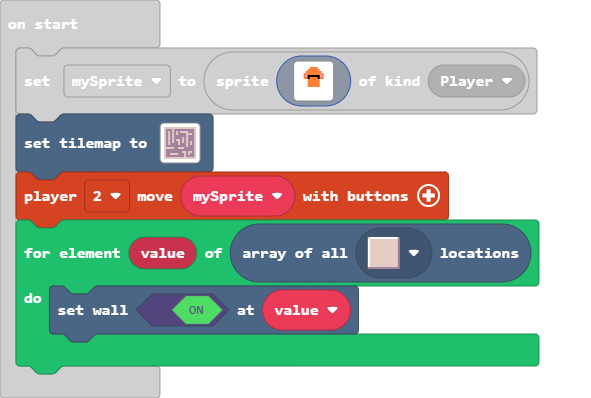
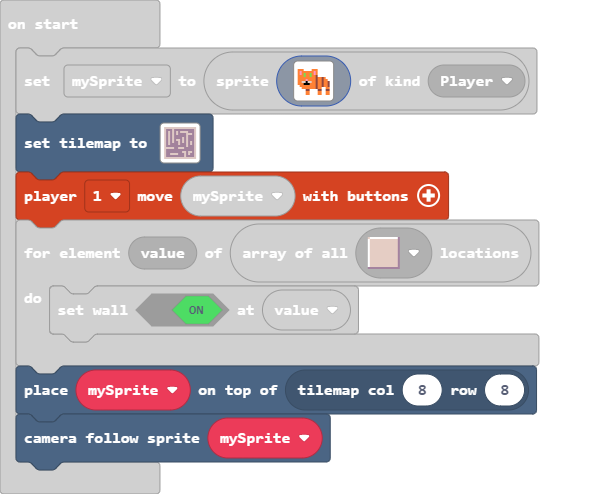
Update main.blocks, main.ts, images.g.jres, images.g.ts

diff --git a/main.ts b/main.ts
@@ -1,23 +1,25 @@
 let mySprite = sprites.create(img`
     . . . . . . . . . . . . . . . . 
-    . . . . . . 4 f f 4 . . . . . . 
-    . . . . . 4 4 4 4 4 4 . . . . . 
-    . . . . 4 4 7 4 4 7 4 4 . . . . 
-    . . . 4 3 4 7 4 4 7 4 3 4 . . . 
-    . . . 4 3 f f f f f f 3 4 . . . 
-    . . . 4 4 f 4 4 4 4 f 4 4 . . . 
-    . . . . . 4 4 4 4 4 4 . . . . . 
-    . . . . . 4 4 4 4 4 4 . . . . . 
-    . . . . . 4 4 4 4 4 4 . . . . . 
-    . . . . . 4 4 4 4 4 4 . . . . . 
-    . . . . . 4 4 . . 4 4 . . . . . 
-    . . . . . 4 4 . . 4 4 . . . . . 
     . . . . . . . . . . . . . . . . 
-    . . . . . . . . . . . . . . . . 
+    4 4 4 . . . . 4 4 4 . . . . . . 
+    4 3 4 4 4 4 4 4 3 4 . . . . . . 
+    4 3 4 7 4 4 7 4 3 4 . . . . . . 
+    4 4 4 7 4 4 7 4 4 e . . . . . . 
+    4 4 4 4 4 4 4 4 4 e 4 4 e 4 . . 
+    4 4 4 4 3 4 4 4 4 e 4 4 e 4 4 . 
+    4 4 d d f d d 4 4 e 4 4 e 4 4 e 
+    4 4 4 f f f 4 4 4 e 4 4 e 4 4 e 
+    . 4 4 4 4 4 4 4 4 e 4 4 e 4 4 e 
+    . . 4 4 4 4 4 4 4 e 4 4 . . 4 4 
+    . . . . e e . . . . e e . . e e 
+    . . . . 4 4 . . . . 4 4 . . 4 4 
+    . . . . 4 4 . . . . 4 4 . . 4 4 
     . . . . . . . . . . . . . . . . 
     `, SpriteKind.Player)
 tiles.setTilemap(tilemap`level1`)
-controller.player2.moveSprite(mySprite)
+controller.player1.moveSprite(mySprite)
 for (let value of tiles.getTilesByType(sprites.dungeon.floorLight2)) {
     tiles.setWallAt(value, true)
 }
+tiles.placeOnTile(mySprite, tiles.getTileLocation(8, 8))
+scene.cameraFollowSprite(mySprite)

diff --git a/images.g.ts b/images.g.ts
@@ -5,20 +5,20 @@ namespace myImages {
         switch(helpers.stringTrim(name)) {
             case "image1":return img`
 . . . . . . . . . . . . . . . . 
-. . . . . . 4 f f 4 . . . . . . 
-. . . . . 4 4 4 4 4 4 . . . . . 
-. . . . 4 4 7 4 4 7 4 4 . . . . 
-. . . 4 3 4 7 4 4 7 4 3 4 . . . 
-. . . 4 3 f f f f f f 3 4 . . . 
-. . . 4 4 f 4 4 4 4 f 4 4 . . . 
-. . . . . 4 4 4 4 4 4 . . . . . 
-. . . . . 4 4 4 4 4 4 . . . . . 
-. . . . . 4 4 4 4 4 4 . . . . . 
-. . . . . 4 4 4 4 4 4 . . . . . 
-. . . . . 4 4 . . 4 4 . . . . . 
-. . . . . 4 4 . . 4 4 . . . . . 
 . . . . . . . . . . . . . . . . 
-. . . . . . . . . . . . . . . . 
+4 4 4 . . . . 4 4 4 . . . . . . 
+4 3 4 4 4 4 4 4 3 4 . . . . . . 
+4 3 4 7 4 4 7 4 3 4 . . . . . . 
+4 4 4 7 4 4 7 4 4 e . . . . . . 
+4 4 4 4 4 4 4 4 4 e 4 4 e 4 . . 
+4 4 4 4 3 4 4 4 4 e 4 4 e 4 4 . 
+4 4 d d f d d 4 4 e 4 4 e 4 4 e 
+4 4 4 f f f 4 4 4 e 4 4 e 4 4 e 
+. 4 4 4 4 4 4 4 4 e 4 4 e 4 4 e 
+. . 4 4 4 4 4 4 4 e 4 4 . . 4 4 
+. . . . e e . . . . e e . . e e 
+. . . . 4 4 . . . . 4 4 . . 4 4 
+. . . . 4 4 . . . . 4 4 . . 4 4 
 . . . . . . . . . . . . . . . . 
 `;
         }
